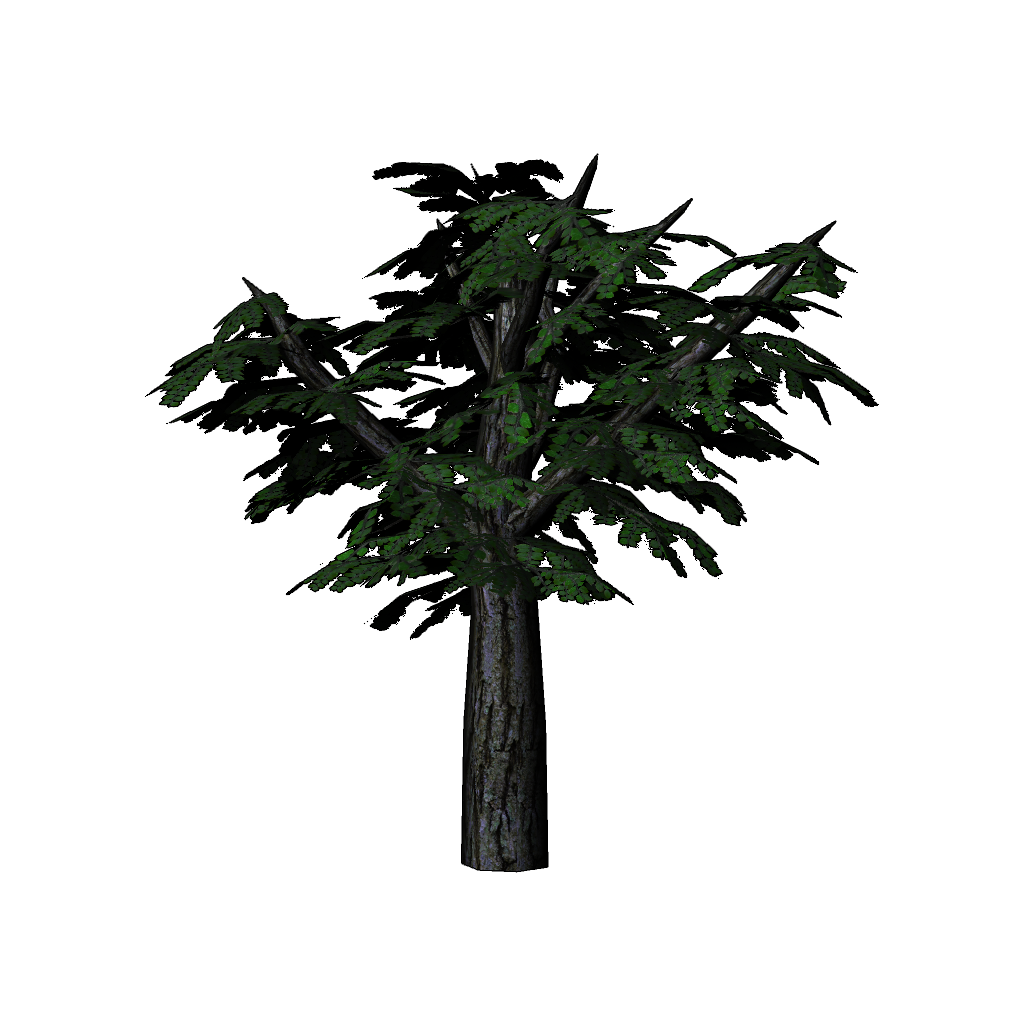
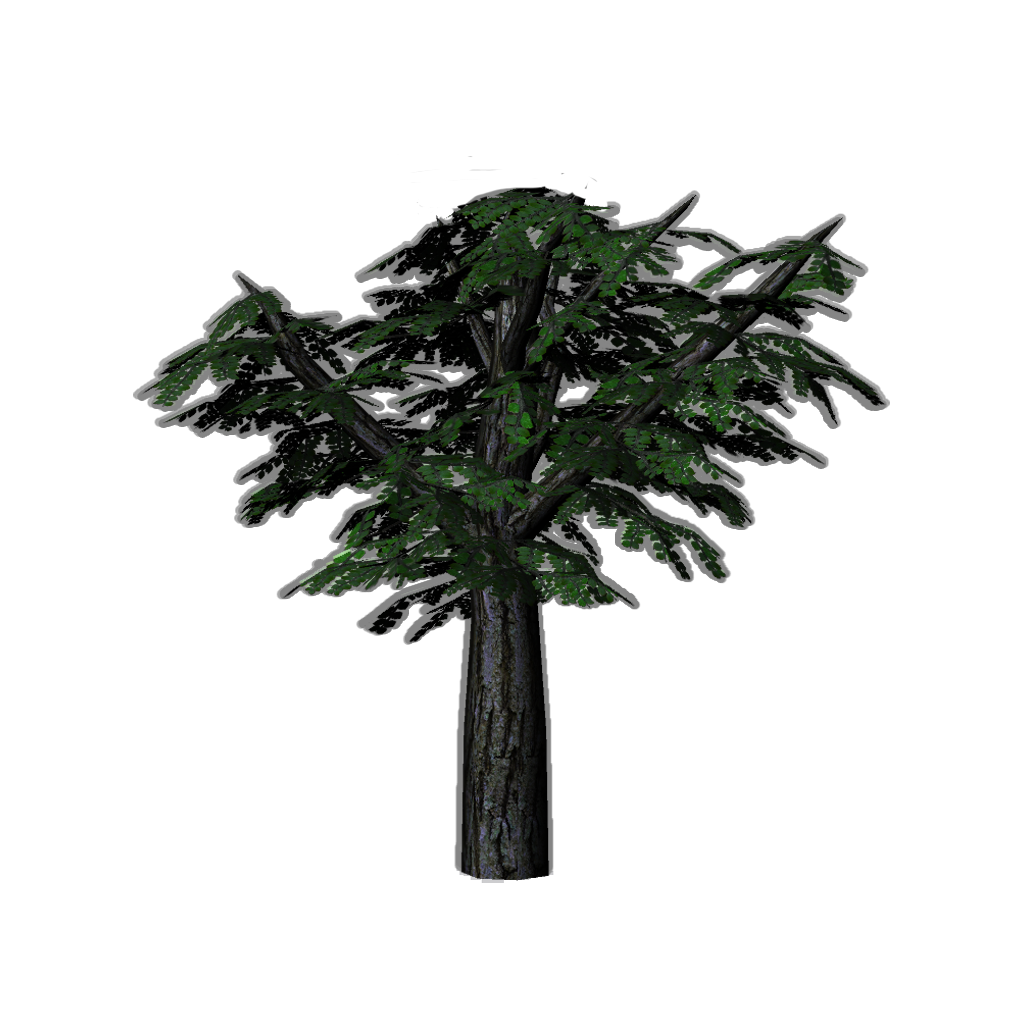
Replaced TreeBillboard.png with new one. Fixed a crasch that occur if no texture resource has been loaded for billboardCollection.

Changed region(s): [[0.125, 0.1562, 0.875, 0.875]]

diff --git a/NDYGFX/Source/InstancingHelper.cpp b/NDYGFX/Source/InstancingHelper.cpp
@@ -399,7 +399,15 @@ void InstancingHelper::PreRenderBillboards(bool shadowmap)
 					prevGroupStart = this->zBillboardGroups[this->zBillboardGroups.size() - 1].s_StartLocation;
 					prevGroupSize = this->zBillboardGroups[this->zBillboardGroups.size() - 1].s_Size;
 				}
-				BillboardGroup newBBGroup = BillboardGroup(billboardCollection->GetNrOfVertices(), prevGroupStart + prevGroupSize, billboardCollection->GetTextureResource()->GetSRVPointer());
+				BillboardGroup newBBGroup;
+				if(billboardCollection->GetTextureResource() != NULL)
+				{
+					newBBGroup = BillboardGroup(billboardCollection->GetNrOfVertices(), prevGroupStart + prevGroupSize, billboardCollection->GetTextureResource()->GetSRVPointer());
+				}
+				else
+				{
+					newBBGroup = BillboardGroup(billboardCollection->GetNrOfVertices(), prevGroupStart + prevGroupSize, NULL);
+				}
 				this->zBillboardGroups.push_back(newBBGroup);
 
 				//Add billboard data
@@ -432,7 +440,15 @@ void InstancingHelper::PreRenderBillboards(bool shadowmap)
 				prevGroupStart = this->zBillboardGroups[this->zBillboardGroups.size() - 1].s_StartLocation;
 				prevGroupSize = this->zBillboardGroups[this->zBillboardGroups.size() - 1].s_Size;
 			}
-			BillboardGroup newBBGroup = BillboardGroup(billboardCollection->GetNrOfVertices(), prevGroupStart + prevGroupSize, billboardCollection->GetTextureResource()->GetSRVPointer());
+			BillboardGroup newBBGroup;
+			if(billboardCollection->GetTextureResource() != NULL)
+			{
+				newBBGroup = BillboardGroup(billboardCollection->GetNrOfVertices(), prevGroupStart + prevGroupSize, billboardCollection->GetTextureResource()->GetSRVPointer());
+			}
+			else
+			{
+				newBBGroup = BillboardGroup(billboardCollection->GetNrOfVertices(), prevGroupStart + prevGroupSize, NULL);
+			}
 			this->zBillboardGroups.push_back(newBBGroup);
 			
 			//Add billboard data
